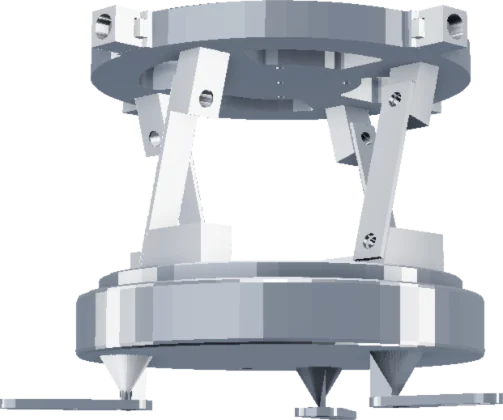
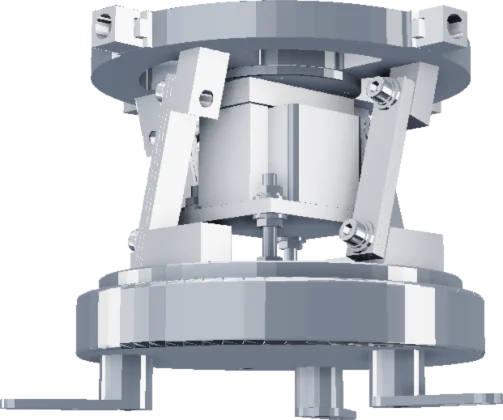
히어로 구형·75도 진동기 — 속이 든 도면으로 갈았다
유신이 짚었다 — "2호 구형진동기 / 2호 75도진동기 이거 안에 텅 비어
있잖아 원래 그게 아니라 옆코아 처럼 안에 있어야 하는데 도면을 잘못줘서
그런거 같은데". 맞았다. 쓰던 두 메시 STEP 은 바깥 드럼 커버뿐이라
커버를 벗기면 빈 우리만 남았다 — 조각이 17개·25개였다(옆코아 82,
고주파 146).

새로 받은 AP214 정밀 B-rep 으로 갈아탔다.
  구형  = BF-230N (192조각, :flipY)
  75도  = BF-230  (96조각)
새 도면엔 드럼 커버가 없어 :hide 가 필요 없다. 고주파·옆코아는
건드리지 않았다.

같은 카메라(az 45 · el -8 · fov 26)로 구워 넷의 결을 맞췄다.
네 폭의 합 2142 → 2081, --span 계수 0.1961 → 0.2018, --h 경계 180.0.

이력 문단의 계수 0.3544 를 되돌렸다 — 일괄 치환이 지난 이야기의
숫자까지 바꿔 368.6 과 어긋나 있었다.

tsc·build ✓ · 히어로 가로 넘침 열다섯 크기 0 · 열한 쪽 ✓33 · 리빌 ✓

diff --git a/src/app/page.tsx b/src/app/page.tsx
@@ -632,8 +632,36 @@ const PART_ERROR = { four: "0.1" };
    ⚠ 그 355/362/383 은 **고도 30도 때의 값이다.** 2026-10-19 에 넷을 고도
       16도로, 같은 날 다시 **고도 -8도**(올려다보기)로 구우며 w 가 전부
       달라졌다(475·415·393·438 → 573·485·489·505 → 539·461·467·482 →
-      **638·524·477·503**). 커버를
-      벗긴 사실 자체는 그대로다 — :hide 값도 그대로 쓴다. */
+      638·524·477·503 → **638·463·477·503**).
+
+   ⚠⚠⚠ **위 :hide 두 개는 이제 안 쓴다(2026-10-19).** 유신이
+      *"구형진동기 / 75도진동기 이거 안에 텅 비어 있잖아 원래 그게 아니라
+      옆코아 처럼 안에 있어야 하는데 **도면을 잘못줘서** 그런거 같은데"*
+      라고 했고, 맞았다 — **커버를 벗기면 빈 우리만 남는 도면**이었다.
+      조각 수가 증거다: 구형 17개 · 75도 25개인데 옆코아는 82개, 고주파는
+      146개다. 속 부품이 애초에 들어 있지 않았다.
+
+      같은 날 BF-*.stp 아홉 개를 새로 받았다. 이름은 볼피더 모델명이지만
+      **내용은 진동기 본체**이고 AP214 정밀 B-rep 이다. 최상위 PRODUCT
+      이름이 곧 기종명이다(scratchpad/stepnames.mjs 가 한글을 푼다 —
+      Inventor 가 X2UTF-16BEX0 로 넣는다) —
+
+        BF-145H   1호고주파진동기        99조각
+        BF-150    1호75도진동기          18조각
+        BF-197H   2호고주파진동기       146조각  254 x 142.1 x 254
+        BF-230    **2호75도진동기**      96조각  293.9 x 213 x 279.6
+        BF-230D   옆코아 진동기(2호)    106조각  292.7 x 223 x 279.6
+        BF-230N   **2호진동기 = 구형**  192조각  276.8 x 208.5 x 273.3
+        BF-280    옆코아 진동기(3호)
+
+      **구형 → BF-230N(:flipY) · 75도 → BF-230** 으로 갈아탔다. 새 도면엔
+      **드럼 커버가 아예 없어 :hide 가 필요 없다.** 커버를 벗겼다는 기록과
+      조각 번호는 **지우지 않는다** — 옛 도면으로 되돌릴 자리다.
+      ⚠ 구형은 **거꾸로 모델링돼 있다** — :flipY 가 필요하다(옛 메시 STEP 도
+         그랬다). 75도는 그대로다.
+      ⚠ 고주파·옆코아는 **건드리지 않았다.** 고주파는 이미 BF-197H 와 같은
+         파일이고, 옆코아는 코어 둘이 보이도록 회전 -71도를 맞춰 둔 상태라
+         도면을 바꾸면 그 값을 다시 찾아야 한다. */
 const VIBRATORS = [
   /* ⚠⚠ **2026-10-15 에 2D 평면도 SVG 넷에서 3D 렌더 넷으로 바꿨다.**
      옛 값은 1호 248x255 · 2호 346x363 · 3호 450x456 · 4호 659x604
@@ -955,6 +983,9 @@ const VIBRATORS = [
            최상위 콤마로 인자를 나눠야** 한다. 인덱스는 1-based 다.
         고주파만 정밀 B-rep 이라 occt 가 그대로 읽는다(146개 메시 · 7만 삼각형 ·
         실측 254x254x142mm).
+        ⚠⚠ **2026-10-19 — 이제 메시 STEP 은 옆코아 하나뿐이다.** 구형·75도를
+           BF-230N · BF-230(둘 다 AP214 정밀 B-rep)으로 갈아타, occt 가 그대로
+           읽는다. meshstep.mjs 는 **지우지 않는다** — 옆코아가 아직 쓴다.
 
      ⚠ **채도를 빼지 않는다.** 한때 셋이 .iam 에 박힌 Inventor 미리보기 PNG
         였고 거기엔 청록·베이지 색이 입혀져 있어, STEP 렌더(회색)와 맞추려고
@@ -984,9 +1015,9 @@ const VIBRATORS = [
      ⚠⚠ **그림을 다시 구우면 cx 도 다시 재야 한다.** 렌더 각도·다리 위치가
         바뀌면 값이 통째로 달라진다. */
   { no: "고주파 진동기", w: 638, h: 420, cx: 0.499, src: "/images/hero/vibrator-hifreq.webp", alt: "2호 고주파진동기" },
-  { no: "구형 진동기", w: 524, h: 420, cx: 0.406, src: "/images/hero/vibrator-round.webp", alt: "2호 구형진동기" },
+  { no: "구형 진동기", w: 463, h: 420, cx: 0.512, src: "/images/hero/vibrator-round.webp", alt: "2호 구형진동기" },
   { no: "옆코아 진동기", w: 477, h: 420, cx: 0.545, src: "/images/hero/vibrator-sidecore.webp", alt: "2호 옆코아진동기" },
-  { no: "75도 진동기", w: 503, h: 420, cx: 0.547, src: "/images/hero/vibrator-75deg.webp", alt: "2호 75도진동기" },
+  { no: "75도 진동기", w: 503, h: 420, cx: 0.539, src: "/images/hero/vibrator-75deg.webp", alt: "2호 75도진동기" },
 ];
 
 /** 네 기종 도면 폭의 합. 화면 폭을 비율로 나눌 때 분모가 된다. */
@@ -1600,24 +1631,28 @@ export default function Home() {
                      ul 은 100% 를 쓰며, **남는 폭 전부를 간격 셋이 나눈다.**
 
                      --h    가장 큰 4호의 **높이** 상한
-                     --span 네 그림 **폭의 합** = --h / 0.1961
-                            0.1961 = 420 / 2142 (가장 높은 그림 h / 네 폭의 합)
+                     --span 네 그림 **폭의 합** = --h / 0.2018
+                            0.2018 = 420 / 2081 (가장 높은 그림 h / 네 폭의 합)
                             ⚠ 거쳐 온 값 — 1419(2D 도면) → 1453 → 1460(구형 커버를
                                벗겨 355 → 362) → 1523(옆코아만 고도 18) →
                                1639(고도 20도) → 1721(같은 날 고도 16도) →
                                2052(같은 날 고도 6도로 세 번째) →
                                1949(같은 날 고도 9도로 네 번째) →
-                               **2142**(같은 날 고도 -8도로 다섯 번째)
+                               2142(같은 날 고도 -8도로 다섯 번째) →
+                               **2081**(같은 날 구형·75도를 속이 든 도면으로)
                             ⚠ 고도를 내릴수록 **합이 커진다** — 상판이 누우면
                                높이는 줄고 폭은 그대로라, 잉크 높이 420 에
                                맞출 때 폭이 늘어난다. 그만큼 같은 폭 상한에서
                                그림이 **낮아진다**(1440 에서 254 → 213px).
                             1419 는 2D 도면 시절 네 폭의 합(207+288+375+549)
-                     li     calc(var(--span) * 그 기종 폭 / 1419)
+                     li     calc(var(--span) * 그 기종 폭 / VIBRATOR_SPAN)
+                            ⚠ 코드는 1419 가 아니라 **VIBRATOR_SPAN(= 네 폭의 합,
+                               지금 2081)**으로 나눈다 — 데이터에서 합을 다시 센다.
+                               1419 는 아래 이력 줄의 첫 값일 뿐이다.
                      gap    (100% - --span) / 3   ← 남는 폭을 셋이 나눈다
 
                      ⚠ --span 에 min() 이 걸려 있다. 화면이 높고 좁으면
-                        --h/0.1961 가 100% 를 넘어 **간격이 음수**가 된다.
+                        --h/0.2018 가 100% 를 넘어 **간격이 음수**가 된다.
 
                      ⚠⚠ **아래 비율 숫자를 손대면 거짓이 된다.** 넷은 같은
                         도면에서 같은 축척으로 잘라 온 것이고 그 비가 곧
@@ -1651,19 +1686,20 @@ export default function Home() {
                              414 390 375 360  폭         126 117 111 105
                              320x568    (라인업 감춤)     -
 
-                           --span 이 min(--h/0.1961, 100% - 3rem) 이고
+                           --span 이 min(--h/0.2018, 100% - 3rem) 이고
                            Container 안쪽이 1088px 이라, 1440 이상에서는
                            1040px 에서 폭이 먼저 막는다. 좁은 폭에서는
                            화면 폭 자체가 막는다. **높이가 상한인 구간은
                            1280 폭의 두 높이뿐**이다.
 
                            ⚠⚠⚠ **2026-10-19 — 그 둘도 이제 폭 상한이다.**
-                              계수가 0.2440 → 0.1961 로 내려가(고도 -8도로 다시
-                              구워 네 폭의 합이 1721 → 2142) 경계가 368.6 →
-                              **174.9** 로 내려앉았다. --h 는 1280x820 에서
+                              계수가 0.2440 → 0.2018 로 내려가(고도 -8도로 다시
+                              굽고 구형·75도 도면을 갈아, 네 폭의 합이
+                              1721 → 2081) 경계가 368.6 → **180.0** 으로
+                              내려앉았다. --h 는 1280x820 에서
                               359, 1280x720 에서 294 라 **둘 다 경계 위**다.
                               r176 으로 재 보면 열다섯 크기에서 4호가 전부
-                              같은 220x183(1024 이하는 화면 폭이 막는다) —
+                              같은 216x180(1024 이하는 화면 폭이 막는다) —
                               즉 **--h 가 진동기 크기를 더는 정하지 않는다.**
                               아래 두 문단(①②)과 "0.78svh - 262" 이야기는
                               계수가 0.2440 이던 때의 기록이다. 계수를 다시
@@ -1679,7 +1715,11 @@ export default function Home() {
 
                         ⚠⚠ **1280x820 은 폭 상한 경계에 올라앉아 있다.**
                            이것 때문에 두 번 재서 맞췄다. --h 가 368.6 보다
-                           크면 --h/0.1961 가 1040 을 넘어 **폭이 먼저 막고**,
+                           크면 --h/**0.3544** 가 1040 을 넘어 **폭이 먼저 막고**,
+                           ⚠ 0.3544 는 **그때의 계수**다(368.6 = 0.3544 x 1040).
+                              계수를 일괄 치환하며 이 줄까지 바꿔 쓴 적이 있어
+                              368.6 과 맞지 않게 됐던 것을 2026-10-19 에
+                              되돌렸다 — **지난 이야기의 숫자는 그대로 둔다.**
                            그러면 --h 를 줄여도 4호가 402px 에서 꼼짝하지
                            않는다. 실제로 0.78svh - 262 로 720 을 잡았을 때
                            820 은 여전히 +2px 넘쳤다 — 높이를 깎았는데도
@@ -1725,7 +1765,7 @@ export default function Home() {
                            1440 에서 4호가 402px 그대로였다. 기본값은 여기
                            var() 의 **두 번째 인자**로 둔다. */
                   ["--span" as string]:
-                    "min(calc(var(--h) / 0.1961), var(--cap, calc(100% - 3rem)))",
+                    "min(calc(var(--h) / 0.2018), var(--cap, calc(100% - 3rem)))",
                   gap: "max(0.5rem, calc((100% - var(--span)) / 3))",
                 }}
               >
